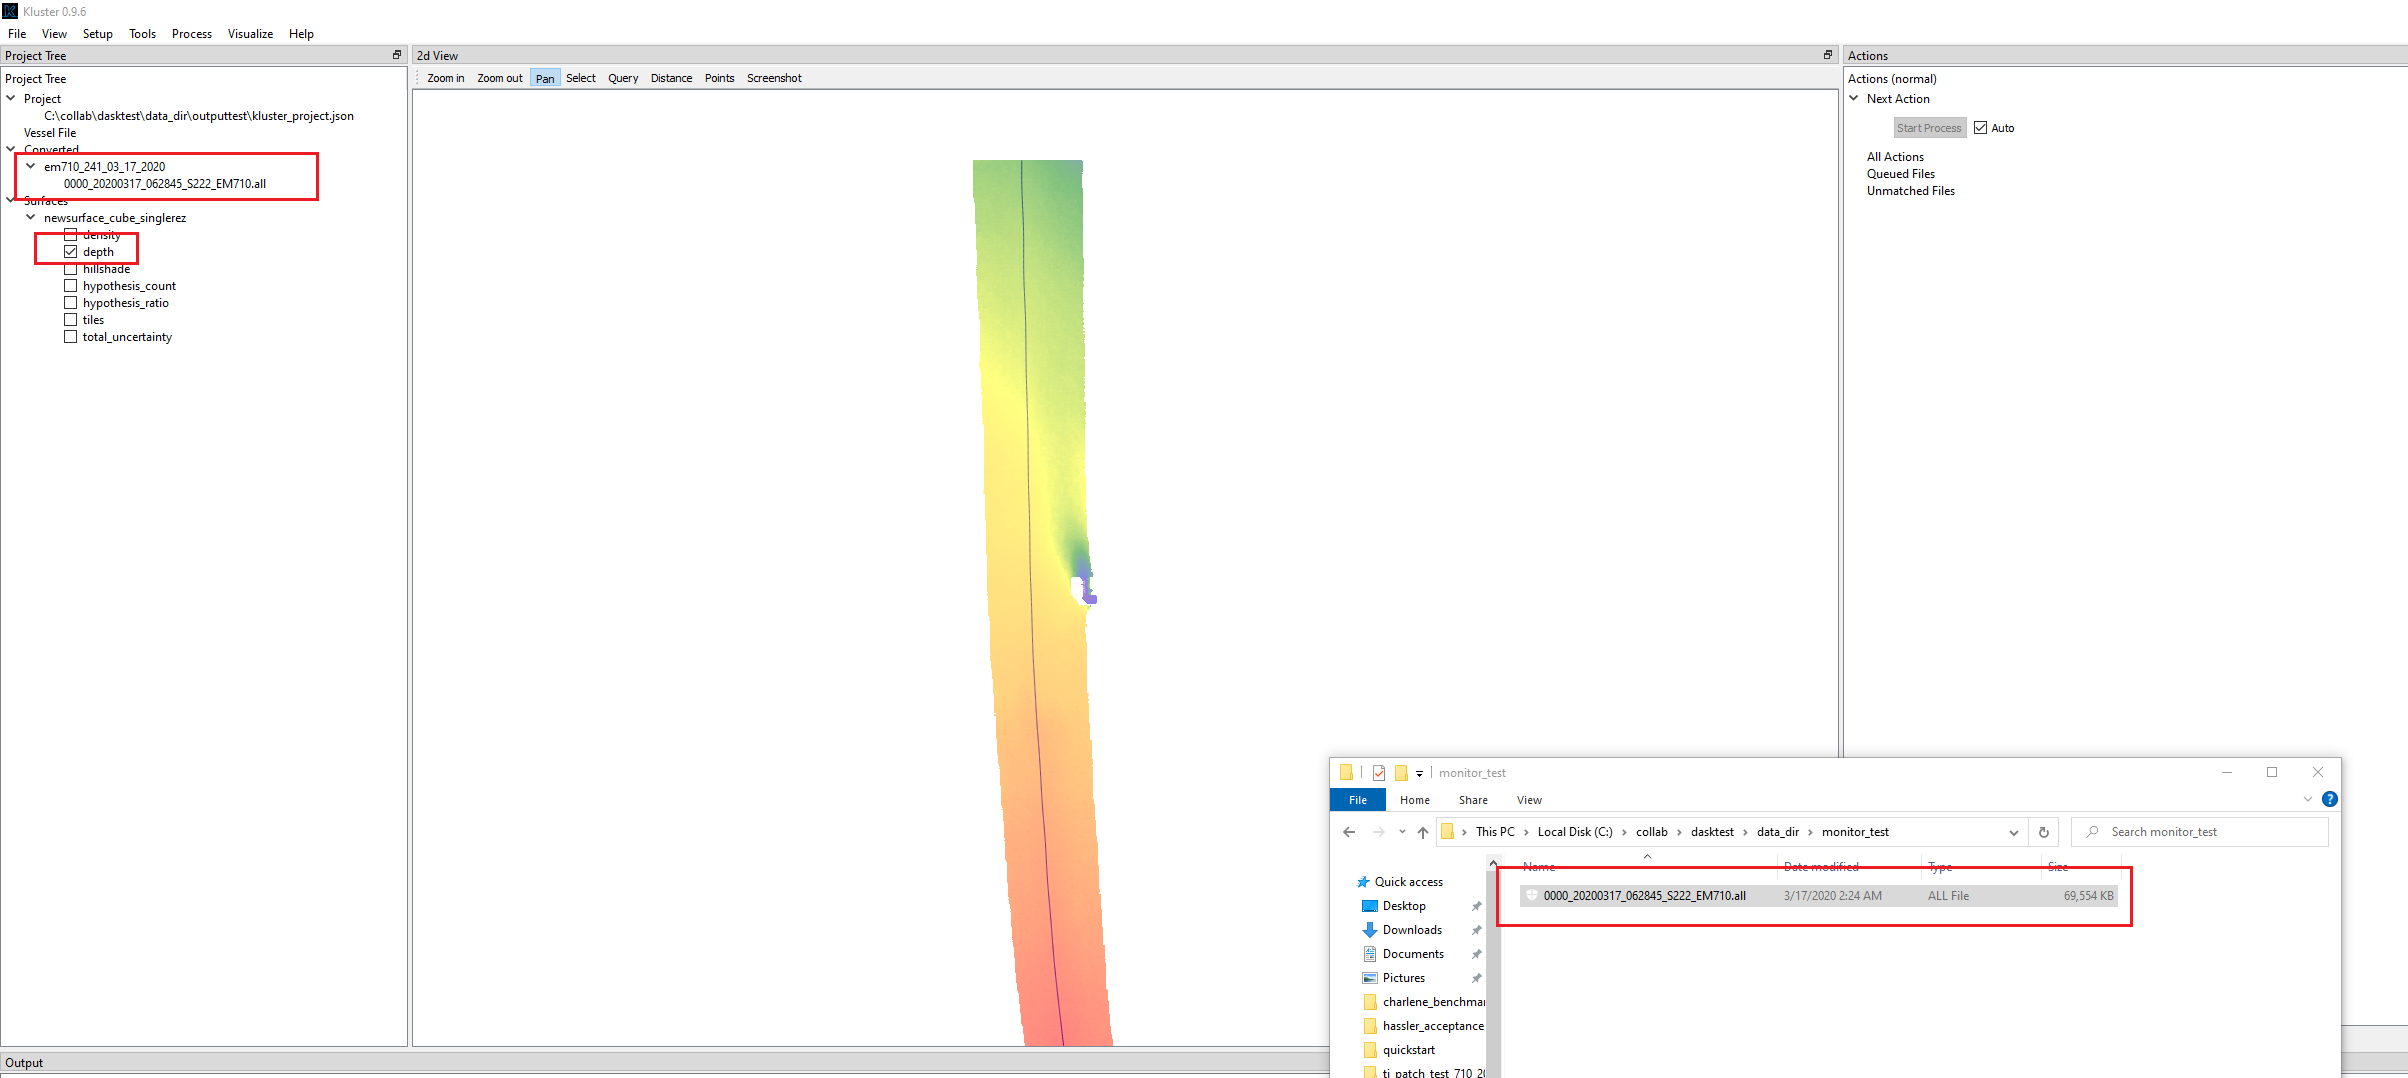
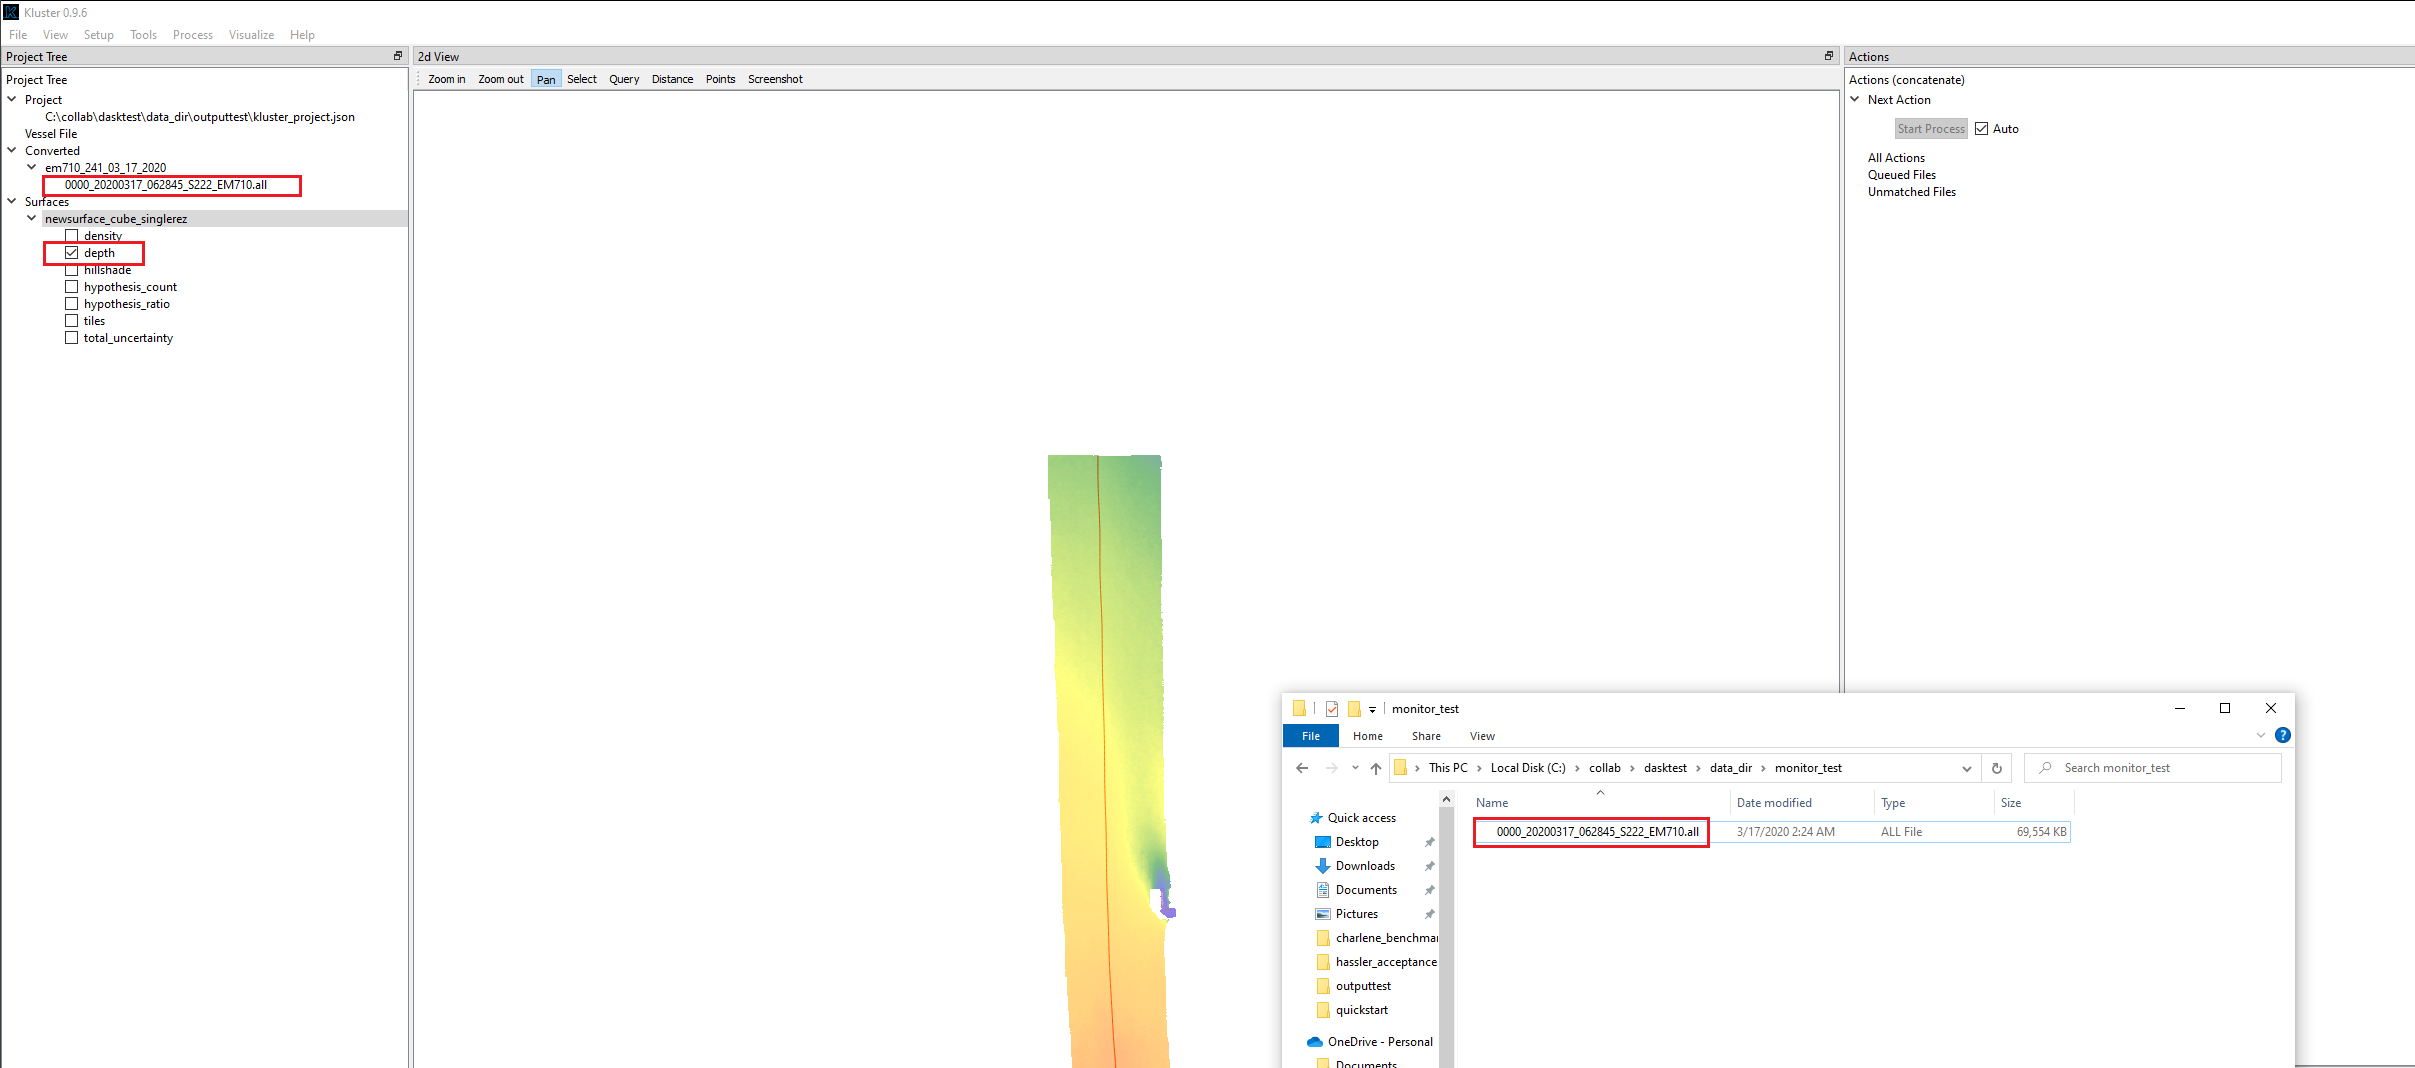
ensure the line is processed before you try and add it to the surface

diff --git a/HSTB/kluster/fqpr_generation.py b/HSTB/kluster/fqpr_generation.py
@@ -3446,7 +3446,10 @@ class Fqpr(ZarrBackend):
         sortedlines = sorted(line_dict, key=lambda item: item[0])  # first item in values is the minimum time
         if line_name in line_dict.keys():
             line_times = [line_dict[line_name][0], line_dict[line_name][1]]
-            if line_name == sortedlines[0]:  # first line, correct for any small discrepancy between metadata and data
+            if len(list(line_dict.keys())) == 1:  # only one line
+                return float(np.min([rp.time.values[0] for rp in self.multibeam.raw_ping])),\
+                       float(np.max([rp.time.values[-1] for rp in self.multibeam.raw_ping]))
+            elif line_name == sortedlines[0]:  # first line, correct for any small discrepancy between metadata and data
                 return float(np.min([rp.time.values[0] for rp in self.multibeam.raw_ping])), line_times[1]
             elif line_name == sortedlines[-1]:  # last line
                 return line_times[0], float(np.max([rp.time.values[-1] for rp in self.multibeam.raw_ping]))

diff --git a/HSTB/kluster/fqpr_intelligence.py b/HSTB/kluster/fqpr_intelligence.py
@@ -757,7 +757,7 @@ class FqprIntel(LoggerClass):
                         new_files = [fil for fil in mfiles if fil not in old_files]
                         if new_files:
                             add_fqpr += [fq_instance]
-                            add_lines += [new_files]
+                            add_lines += [f for f in new_files if fq_instance.line_is_processed(f)]
                     else:
                         add_fqpr += [fq_instance]
                         add_lines += [mfiles]
